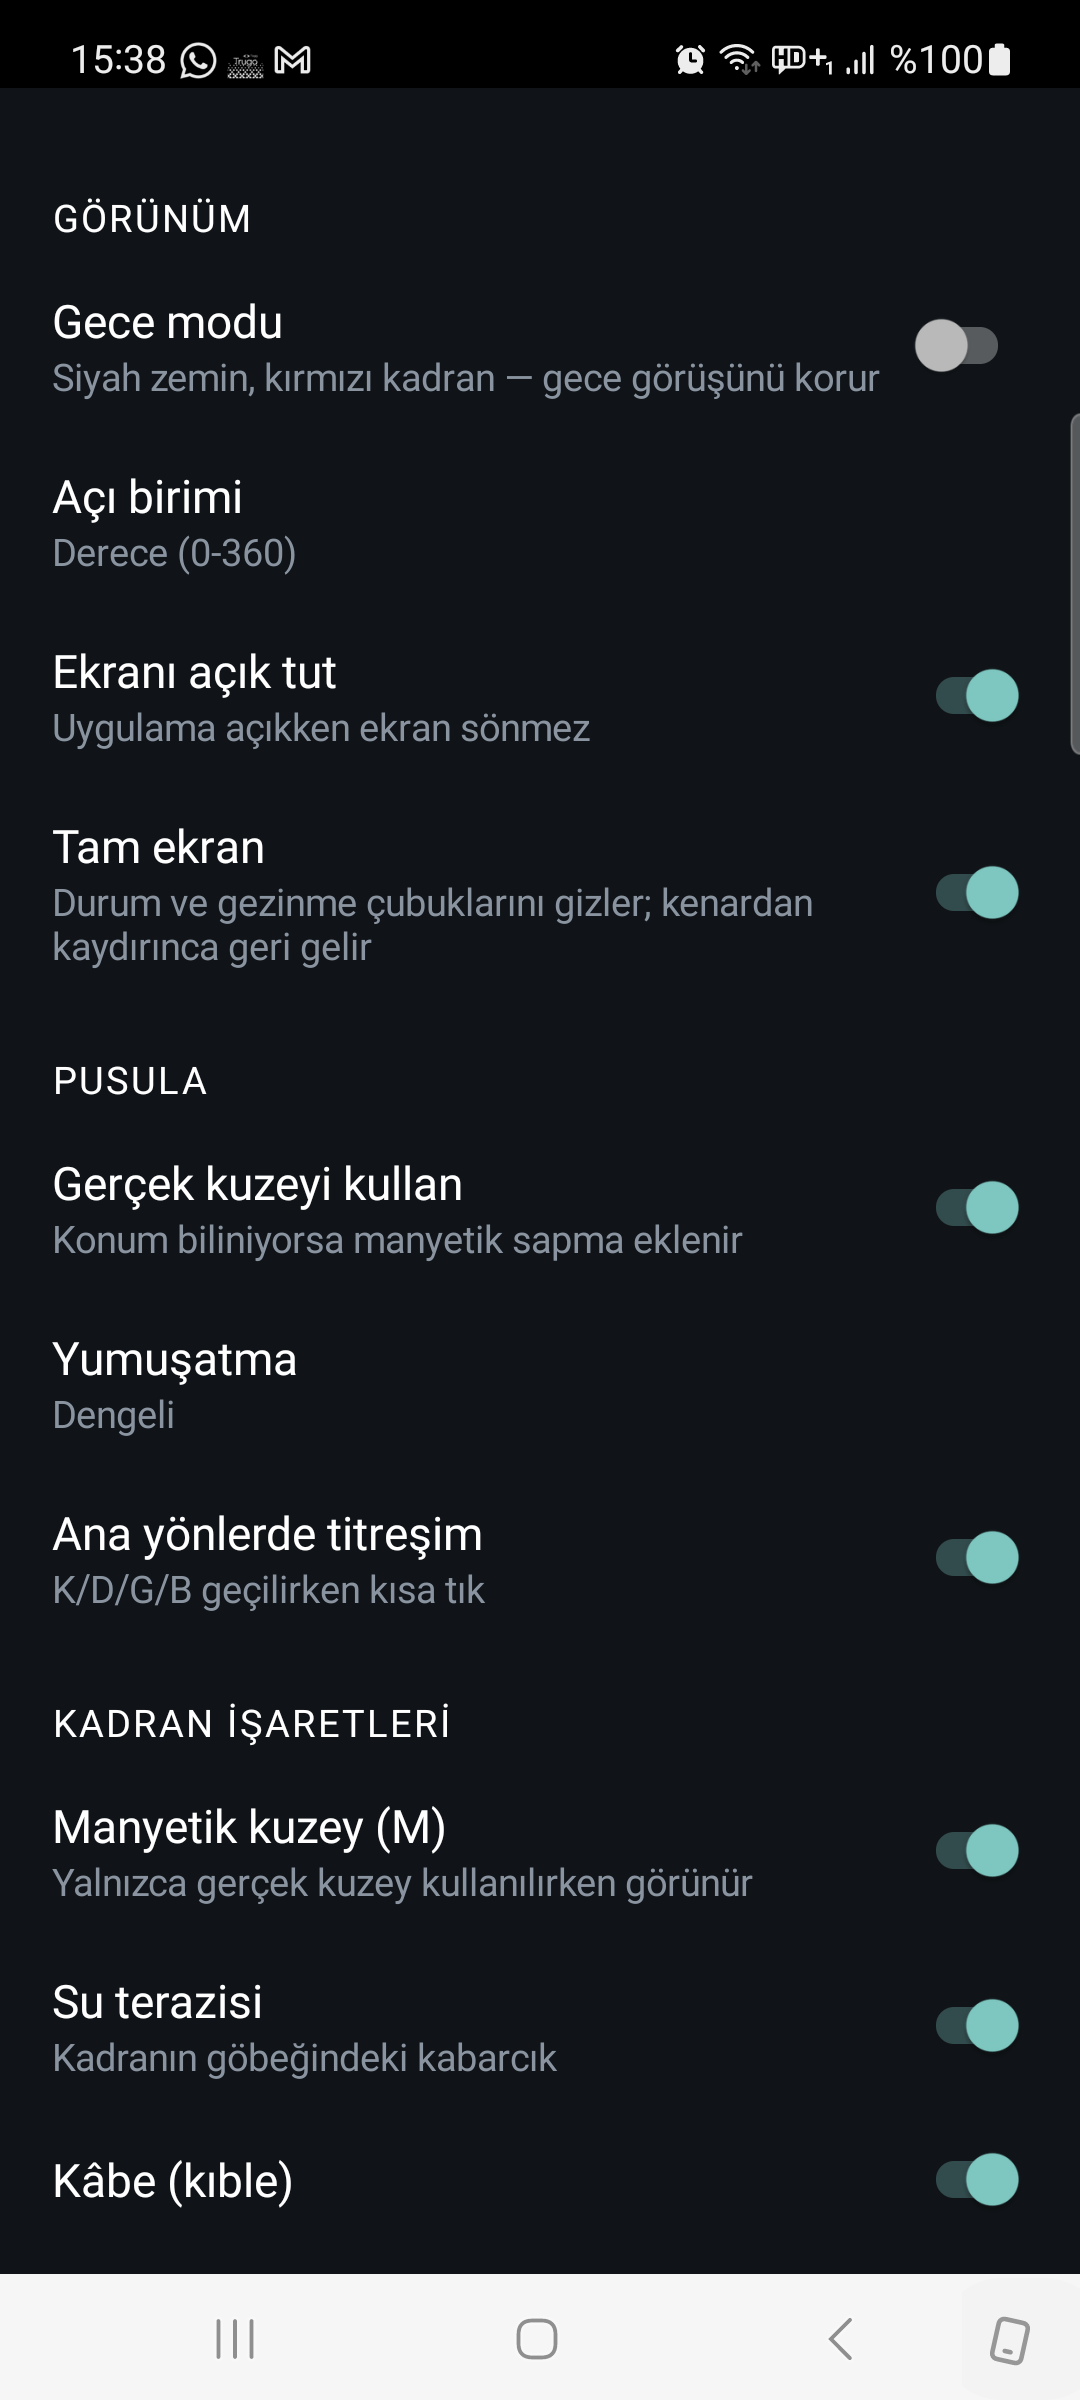
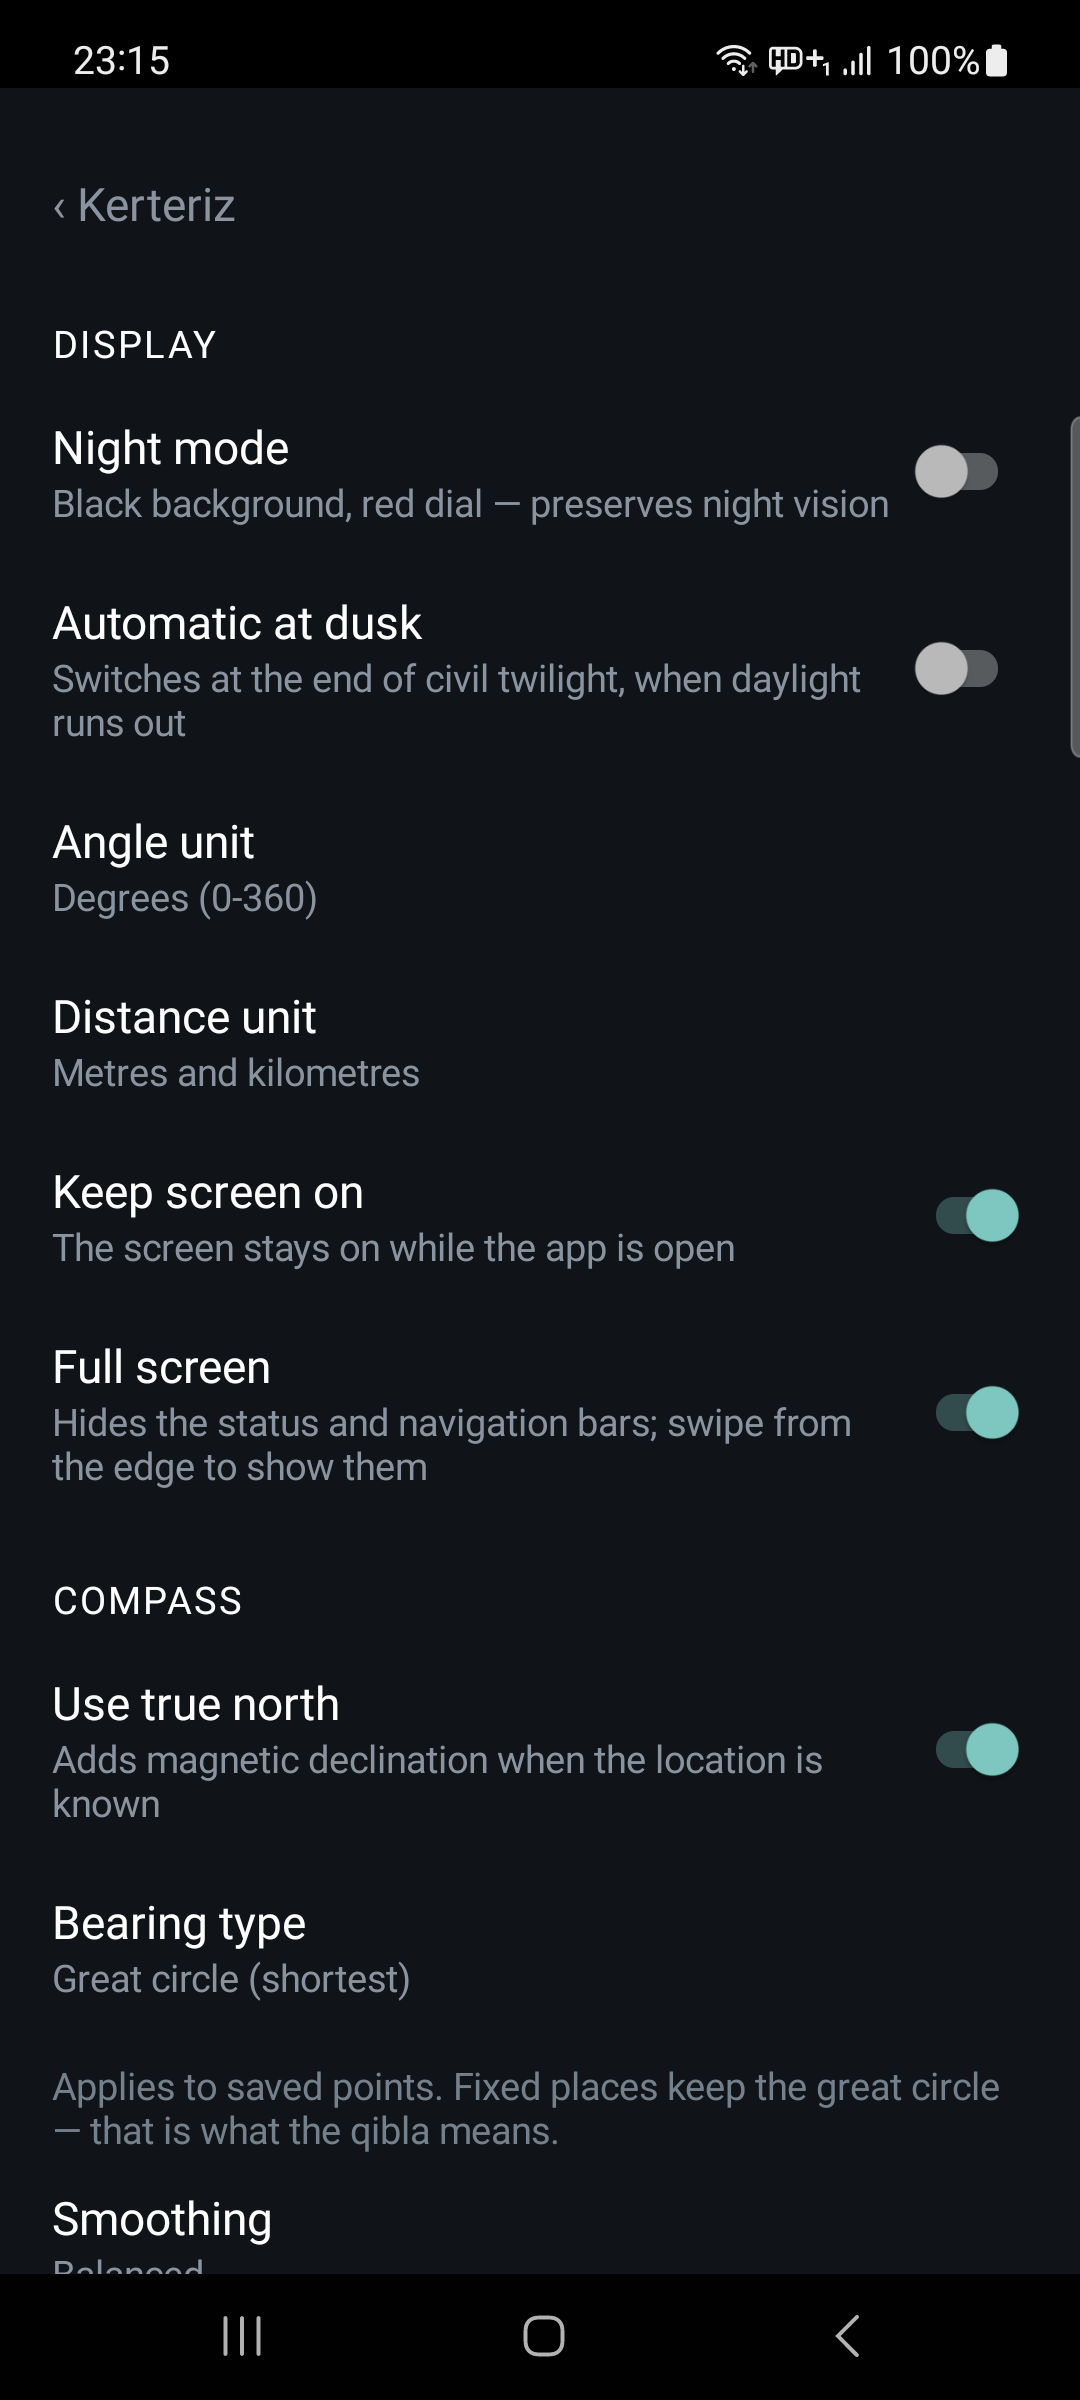
Mağaza çekimlerini İngilizce olarak yenile
Depodaki üç çekim iki sürüm geride ve Türkçeydi. Üçü de güncel sürümle
(5.0/35), telefonun sistem dili geçici olarak İngilizceye alınarak
yeniden çekildi; kadranda, alt satırlarda ve ayarlar başlıklarında tek
bir Türkçe karakter kalmadı.

Kadranda sabit yer olarak yalnızca Greenwich açık: mağaza ve site
tarafında dini motif geçmiyor, Greenwich de dini olmayan bir yer ve
sitedeki altyazının "a fixed place" sözünü karşılıyor. Altı işaret
sayılabiliyor: M, Greenwich, güneş diski, güneş yayı, nokta, ay.

Ayarlar karesi, yenilenme sebebi olan iki yeni satırı — DISPLAY
altında "Distance unit", COMPASS altında "Bearing type" — kadrajda
tutuyor. Durum çubuğu da artık demo kipinde: kişisel bildirim simgesi
yok ve pil yüzdesi sistem diline uygun biçimde "100%" yazıyor.

Boyut 1080x2400 olarak kaldığı için docs/index.html'deki üç <img>
etiketine dokunmak gerekmedi.

diff --git a/README.md b/README.md
@@ -40,7 +40,7 @@ kerteriz/
 | | | |
 |---|---|---|
 | ![Gündüz](docs/ekran-gunduz.png) | ![Gece modu](docs/ekran-gece.png) | ![Ayarlar](docs/ekran-ayarlar.png) |
-| Kadranda altı işaret: mavi **M** manyetik kuzey, yeşil **Kıble**, altın disk güneş ve yayı, mor baklava kaydedilen nokta, gri disk ay. Altta yönler, koordinat ve hedef satırı. | Gece modu: siyah zemin, kırmızı kadran. Ayrım parlaklıkla değil tonla kurulur, gece görüşü korunur. | Ayarlar: görünüm, pusula davranışı ve hangi işaretlerin görüneceği. Uygulama içinde dil ayarı yoktur, sistem dili kullanılır. |
+| Kadranda altı işaret: mavi **M** manyetik kuzey, yeşil **Greenwich**, altın disk güneş ve yayı, mor baklava kaydedilen nokta, gri disk ay. Altta yönler, koordinat ve hedef satırı. | Gece modu: siyah zemin, kırmızı kadran. Ayrım parlaklıkla değil tonla kurulur, gece görüşü korunur. | Ayarlar: görünüm, pusula davranışı ve hangi işaretlerin görüneceği. Uygulama içinde dil ayarı yoktur, sistem dili kullanılır. |
 
 ## 1. Hazır APK'yı telefona kurmak
 
